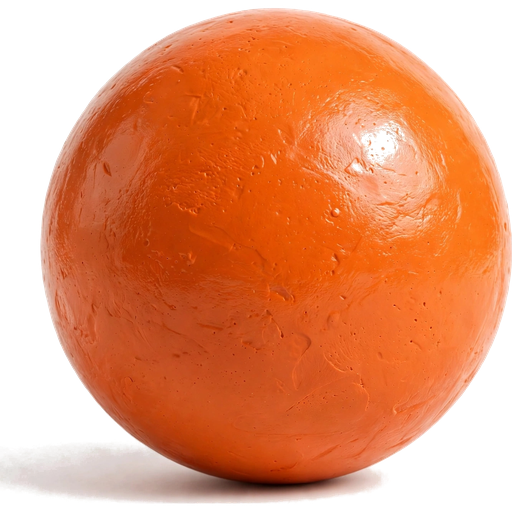
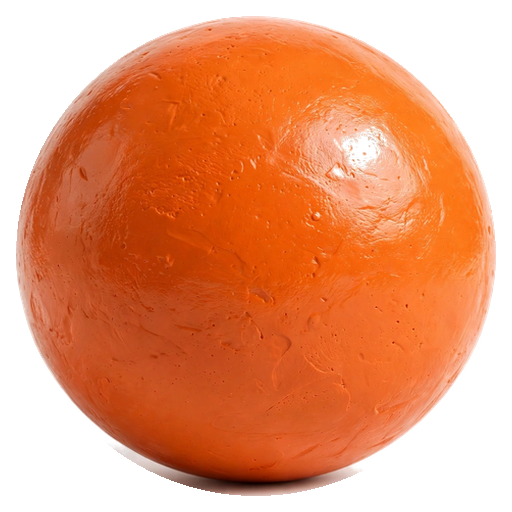
Ball Sort balls uniform size no shadow, points pop-up to bottom, slower transitions so points pop-up finishes before screen changes

diff --git a/index.html b/index.html
@@ -138,7 +138,7 @@ body.letters-flying #menuScreen{background:linear-gradient(180deg,#fff8ef,#ffe9c
 .memface{background:#ffe9c9}
 .revealcard img{height:auto!important;aspect-ratio:3/2;object-fit:cover}
 .simonbtn{height:160px!important;border-radius:22px!important;box-shadow:0 6px 18px rgba(0,0,0,.15)}
-.ballimg{filter:drop-shadow(0 4px 6px rgba(0,0,0,.25));transition:transform .25s ease}
+.ballimg{filter:none;transition:transform .25s ease}
 .ballimg.held{transform:translateY(-26px) scale(1.1)}
 .ballimg.pop{animation:ballpop .35s ease}
 @keyframes ballpop{0%{transform:scale(.7)}60%{transform:scale(1.15)}100%{transform:scale(1)}}
@@ -179,7 +179,7 @@ body.letters-flying #menuScreen{background:linear-gradient(180deg,#fff8ef,#ffe9c
 <div class="screen" id="transitionScreen" style="background:linear-gradient(180deg,#fff8ef,#ffe9c9)"><div style="flex:1;display:flex;flex-direction:column;align-items:center;justify-content:center"><img src="img/keep-one.png" alt="" style="width:92%;max-width:480px;animation:keepin 1.4s ease forwards"></div></div>
 
 <div id="xpCollect" style="display:none;position:fixed;left:50%;top:42%;transform:translate(-50%,-50%);z-index:70;pointer-events:none;text-align:center"><img src="img/cloud-puff.png" style="width:260px;height:auto;position:absolute;left:50%;top:50%;transform:translate(-50%,-50%);opacity:.95;animation:cloudpuff .9s ease-out forwards"><img id="xpCollectImg" src="img/xp-plus10.png" style="width:220px;max-width:80vw;height:auto;position:relative;z-index:1;animation:xppop .6s cubic-bezier(.34,1.56,.64,1) forwards;display:none"><div id="xpCollectText" style="position:relative;z-index:1;font-family:'Fredoka',system-ui,sans-serif;font-size:68px;font-weight:700;background:linear-gradient(90deg,#ff8a3d,#ff5d8f);-webkit-background-clip:text;background-clip:text;color:transparent;filter:drop-shadow(0 2px 0 #fff);animation:xppop .8s cubic-bezier(.34,1.56,.64,1) forwards"></div><div style="position:relative;z-index:1;font-family:'Fredoka',system-ui,sans-serif;font-size:24px;font-weight:700;background:linear-gradient(90deg,#ff8a3d,#ff5d8f);-webkit-background-clip:text;background-clip:text;color:transparent;filter:drop-shadow(0 2px 0 #fff)">Popularity Points</div></div>
-<div id="xpBarPop" style="display:none;position:fixed;left:50%;top:12px;transform:translateX(-50%);z-index:70;width:min(320px,88vw);background:#fff8ef;border:3px solid #e8c9a0;border-radius:20px;padding:10px 14px;pointer-events:none;box-shadow:0 8px 24px rgba(0,0,0,.15)"><div id="xpBarLabel" style="font-weight:900;font-size:15px;text-align:center;margin-bottom:6px">Popularity Points</div><div style="height:14px;background:#eee;border-radius:7px;overflow:hidden"><div id="xpBarFill" style="height:100%;width:0%;background:linear-gradient(90deg,#ff8a3d,#ff5d8f);border-radius:7px;transition:width .9s ease"></div></div><div id="xpBarText" style="font-weight:800;font-size:13px;text-align:center;margin-top:6px"></div></div>
+<div id="xpBarPop" style="display:none;position:fixed;left:50%;bottom:16px;transform:translateX(-50%);z-index:70;width:min(320px,88vw);background:#fff8ef;border:3px solid #e8c9a0;border-radius:20px;padding:10px 14px;pointer-events:none;box-shadow:0 8px 24px rgba(0,0,0,.15)"><div id="xpBarLabel" style="font-weight:900;font-size:15px;text-align:center;margin-bottom:6px">Popularity Points</div><div style="height:14px;background:#eee;border-radius:7px;overflow:hidden"><div id="xpBarFill" style="height:100%;width:0%;background:linear-gradient(90deg,#ff8a3d,#ff5d8f);border-radius:7px;transition:width .9s ease"></div></div><div id="xpBarText" style="font-weight:800;font-size:13px;text-align:center;margin-top:6px"></div></div>
 
 <div id="holdPopup" style="display:none;position:fixed;left:50%;top:28%;transform:translateX(-50%);z-index:80;pointer-events:none;text-align:center"><img id="holdPopupImg" src="img/hold-on.png" style="width:260px;max-width:80vw;height:auto;animation:xppop .45s cubic-bezier(.34,1.56,.64,1) forwards"></div>
 <div class="screen" id="pairScreen">
@@ -289,7 +289,7 @@ function trumpet(){[523,659,784].forEach(f=>beep(f,.6,'triangle',.03));setTimeou
 function trombone(){beep(90,.35,'sine',.06);setTimeout(()=>beep(70,.3,'sine',.05),180)}
 const $=id=>document.getElementById(id);
 function show(id){sfx(720,.06,'sine',.018,'screen');if(id!=='miniScreen')window._simonActive=false;if(id==='menuScreen'){document.body.classList.remove('letters-flying');let pb=$('playBtn');if(pb)pb.classList.remove('playpressed','playtapped')}document.querySelectorAll('.screen').forEach(s=>{s.classList.remove('active');s.classList.remove('screen-fadeout');s.classList.remove('screen-fadein')});$(id).classList.add('active');if(id==='menuScreen'||id==='dailyScreen'||id==='profileScreen'||id==='streakScreen')setMusicMode('menu');else if(id==='revealScreen')setMusicMode('reveal');else if(id==='pairScreen')setMusicMode('game');else setMusicMode('game')}
-function fadeShow(id){let cur=document.querySelector('.screen.active');if(cur)cur.classList.add('screen-fadeout');setTimeout(()=>{show(id);let t=$(id);t.classList.add('screen-fadein');requestAnimationFrame(()=>requestAnimationFrame(()=>t.classList.remove('screen-fadein')))},350)}
+function fadeShow(id){let cur=document.querySelector('.screen.active');if(cur)cur.classList.add('screen-fadeout');setTimeout(()=>{show(id);let t=$(id);t.classList.add('screen-fadein');requestAnimationFrame(()=>requestAnimationFrame(()=>t.classList.remove('screen-fadein')))},900)}
 let roomId=new URLSearchParams(location.search).get('room')||'',room=null,myPicks={},partnerPicks={},runStart=0,runIdx=0,preview=null;let guessMode=false,guessFriend='',guessPairs=[],guessPicks={};
 function roomRef(){return doc(db,'thisorthat_public',roomId)}
 async function ensureRoom(){if(!db)return;if(auth&&!user){try{await signInAnonymously(auth)}catch(e){}}let uid=user?.uid||('guest-'+Math.random().toString(36).slice(2));if(!roomId){roomId='room-'+Math.random().toString(36).slice(2,7);history.replaceState(null,'','?room='+roomId)}try{let ref=roomRef(),snap=await getDoc(ref);if(!snap.exists()){await setDoc(ref,{players:[{uid,name:'Player'}],picks:{},runStart:0,createdAt:Date.now()})}else{let d=snap.data();runStart=d.runStart||0;myPicks=d.picks?.[uid]||{}}}catch(e){}}
@@ -303,7 +303,7 @@ function tourneyMakeMatches(items){let matches=[],bye=null;for(let i=0;i<items.l
 function tourneyBucketWinners(bucket){let out=[];PAIRS.forEach((pr,i)=>{if(pr[4]===bucket&&myPicks['p'+i])out.push(myPicks['p'+i])});return out.sort(()=>Math.random()-.5)}
 function tourneySetupBucket(){tourney.bucket=tourney.buckets[tourney.bucketIdx];let items=tourneyBucketWinners(tourney.bucket);let r=tourneyMakeMatches(items);tourney.matches=r.matches;tourney.bye=r.bye;tourney.winners=r.bye?[r.bye]:[];tourney.matchIdx=0}
 function tourneySetupGrand(){tourney.stage='grand';let items=tourney.buckets.map(b=>tourney.champions[b]);let r=tourneyMakeMatches(items);tourney.matches=r.matches;tourney.bye=r.bye;tourney.winners=r.bye?[r.bye]:[];tourney.matchIdx=0}
-function startTourney(){tourneyActive=true;tourney={buckets:['cozy','food','nature','animals','color'],bucketIdx:0,stage:'bucket',champions:{},matches:[],bye:null,winners:[],matchIdx:0,bucket:''};tourneySetupBucket();show('transitionScreen');setTimeout(()=>{show('pairScreen');renderTourneyPair()},1700)}
+function startTourney(){tourneyActive=true;tourney={buckets:['cozy','food','nature','animals','color'],bucketIdx:0,stage:'bucket',champions:{},matches:[],bye:null,winners:[],matchIdx:0,bucket:''};tourneySetupBucket();show('transitionScreen');setTimeout(()=>{show('pairScreen');renderTourneyPair()},3000)}
 function renderTourneyPair(){if(!tourney)return;if(tourney.matchIdx>=tourney.matches.length){tourneyAdvance();return}let m=tourney.matches[tourney.matchIdx];runList=[m];runIdx=0;renderPair()}
 function tourneyAdvance(){if(!tourney)return;if(tourney.winners.length===1){let champ=tourney.winners[0];if(tourney.stage==='bucket'){tourney.champions[tourney.bucket]=champ;tourney.bucketIdx++;if(tourney.bucketIdx<tourney.buckets.length){tourneySetupBucket();renderTourneyPair();return}else{tourneySetupGrand();renderTourneyPair();return}}else{showTourneyChampion(champ);return}}let items=tourney.winners;let r=tourneyMakeMatches(items);tourney.matches=r.matches;tourney.bye=r.bye;tourney.winners=r.bye?[r.bye]:[];tourney.matchIdx=0;renderTourneyPair()}
 function showTourneyChampion(champ){tourneyActive=false;let el=$('tourneyChamp');if(el)el.innerHTML='<img src="'+(IMG[champ]||'')+'" style="width:280px;max-width:85vw;height:auto;border-radius:22px;border:3px solid #e8c9a0"><div style="font-size:28px;font-weight:900">'+champ+'</div>';show('tourneyScreen');trumpet();addXP(15);for(let c=0;c<20;c++){let d=document.createElement('div');d.className='confetti';d.style.left=Math.random()*100+'vw';d.style.background=['#ff8a3d','#ff5d8f','#ffd93d'][c%3];document.body.appendChild(d);setTimeout(()=>d.remove(),3000)}setTimeout(()=>{try{localStorage.setItem('tot_seen','[]')}catch(e){};tourney=null;runList=null;show('menuScreen')},4000)}
@@ -326,13 +326,13 @@ holdTimer=setInterval(()=>{let p=Math.min(100,(Date.now()-holdStart)/1500*100);l
 function endHold(){if(!preview)hideHoldPopup();stopRumble();if(holdTimer){clearInterval(holdTimer);holdTimer=null}let f=$('holdFill');if(f)f.remove();$('optA').classList.remove('holding');$('optB').classList.remove('holding');if(!preview){$('optA').classList.remove('chosen','dim','glow');$('optB').classList.remove('chosen','dim','glow');}}
 $('optA').addEventListener('pointerdown',()=>startHold('a'));$('optB').addEventListener('pointerdown',()=>startHold('b'));
 window.addEventListener('pointerup',endHold);window.addEventListener('pointercancel',endHold);
-$('confirmBtn').onclick=async()=>{if(!preview)return;if(tourneyActive){let t=document.getElementById('thumbsUp');if(t)t.remove();tourneyConfirm();return;}let t=document.getElementById('thumbsUp');if(t)t.remove();saveStats({picks:1});addXP(guessMode?5:10);showXpCollect(guessMode?5:10);let _m=runPairs()[runIdx];if(_m)saveSeen(_m.id);let m=runPairs()[runIdx];if(!guessMode)myPicks[m.id]=preview.label;let el=preview.side==='a'?$('optA'):$('optB');el.classList.remove('glow');el.classList.add('locked');try{navigator.vibrate&&navigator.vibrate([60,40,120])}catch(e){}try{let o=ctx.createOscillator(),g=ctx.createGain();o.type='sine';o.frequency.setValueAtTime(300,ctx.currentTime);o.frequency.exponentialRampToValueAtTime(1400,ctx.currentTime+.35);g.gain.setValueAtTime(.05,ctx.currentTime);g.gain.exponentialRampToValueAtTime(.001,ctx.currentTime+.4);o.connect(g);g.connect(ctx.destination);o.start();o.stop(ctx.currentTime+.4)}catch(e){}setTimeout(()=>beep(1320*pitchForRun(),.25,'sine'),200);if(guessMode){guessPicks[m.id]=preview.label}else if(db&&roomId){try{let ref=roomRef(),snap=await getDoc(ref);let picks=snap.data()?.picks||{};picks[user?.uid||'guest']=myPicks;await updateDoc(ref,{picks})}catch(e){}}let dir=preview.side==='b'?'slideout-right':'slideout-left';$('pairWrap').classList.add(dir);setTimeout(()=>{runIdx++;if(runIdx>=3){if(guessMode){if(guessFriend==='Partner'){showReveal()}else{showGuessDone()}}else{finishRun()}}else{renderPair()}},450)};
+$('confirmBtn').onclick=async()=>{if(!preview)return;if(tourneyActive){let t=document.getElementById('thumbsUp');if(t)t.remove();tourneyConfirm();return;}let t=document.getElementById('thumbsUp');if(t)t.remove();saveStats({picks:1});addXP(guessMode?5:10);showXpCollect(guessMode?5:10);let _m=runPairs()[runIdx];if(_m)saveSeen(_m.id);let m=runPairs()[runIdx];if(!guessMode)myPicks[m.id]=preview.label;let el=preview.side==='a'?$('optA'):$('optB');el.classList.remove('glow');el.classList.add('locked');try{navigator.vibrate&&navigator.vibrate([60,40,120])}catch(e){}try{let o=ctx.createOscillator(),g=ctx.createGain();o.type='sine';o.frequency.setValueAtTime(300,ctx.currentTime);o.frequency.exponentialRampToValueAtTime(1400,ctx.currentTime+.35);g.gain.setValueAtTime(.05,ctx.currentTime);g.gain.exponentialRampToValueAtTime(.001,ctx.currentTime+.4);o.connect(g);g.connect(ctx.destination);o.start();o.stop(ctx.currentTime+.4)}catch(e){}setTimeout(()=>beep(1320*pitchForRun(),.25,'sine'),200);if(guessMode){guessPicks[m.id]=preview.label}else if(db&&roomId){try{let ref=roomRef(),snap=await getDoc(ref);let picks=snap.data()?.picks||{};picks[user?.uid||'guest']=myPicks;await updateDoc(ref,{picks})}catch(e){}}let dir=preview.side==='b'?'slideout-right':'slideout-left';$('pairWrap').classList.add(dir);setTimeout(()=>{runIdx++;if(runIdx>=3){if(guessMode){if(guessFriend==='Partner'){showReveal()}else{showGuessDone()}}else{finishRun()}}else{renderPair()}},5000)};
 async function finishRun(){show('processScreen');let variants=[
 '<div style="font-size:80px;animation:vortex 1.5s linear infinite">💫</div><div style="font-size:20px;font-weight:800">Hearts swirling</div>',
 '<div style="font-size:80px;animation:shufflefly .6s ease-in-out infinite">🃏</div><div style="font-size:20px;font-weight:800">Cards flying</div>',
 '<div style="font-size:80px">🎆</div><div style="font-size:20px;font-weight:800">Fireworks saving</div>',
 '<div style="font-size:80px;animation:bob 1s ease-in-out infinite">💌</div><div style="font-size:20px;font-weight:800">Sealing with a kiss</div>'];
-let _pairs=runPairs();let _imgs=_pairs.slice(0,3).map(pr=>IMG[pr.a]||'');$('spectacle').innerHTML='<div style="display:flex;gap:12px;justify-content:center">'+_imgs.map((im,i)=>`<img src="${im}" style="width:120px;height:80px;object-fit:cover;animation:shufflefly .6s ease-in-out infinite;animation-delay:${i*150}ms;border:3px solid #e8c9a0;border-radius:18px;background:#fff">`).join('')+'</div><div style="font-size:20px;font-weight:800">Saving your picks</div><div style="width:200px;height:12px;background:#eee;border-radius:6px;overflow:hidden"><div id="specBar" style="height:100%;width:0%;background:#ff8a3d;transition:width 1.2s linear"></div></div>';setTimeout(()=>{let b=$('specBar');if(b)b.style.width='100%'},50);beep(500,.15);setTimeout(()=>beep(650,.15),700);setTimeout(()=>beep(800,.2),1400);for(let c=0;c<12;c++){let el=document.createElement('div');el.className='confetti';el.style.left=Math.random()*100+'vw';el.style.background=['#ff8a3d','#ff5d8f','#ffd93d'][c%3];document.body.appendChild(el);setTimeout(()=>el.remove(),2500)}window._processStart=Date.now();window._processAdvanced=false;function advanceFromProcess(){if(window._processAdvanced)return;window._processAdvanced=true;let pairs=runPairs();let partnerDone=pairs.every(p=>partnerPicks[p.id]);if(partnerDone){show('guessPopupScreen');let t=$('guessPopupText');if(t)t.textContent='Your partner already played these 3.'}else{finishedRun=true;try{startMemory()}catch(e){(async()=>{await buildRun();runIdx=0;nextPairs()})()}}};setTimeout(advanceFromProcess,1400);if(!window._processWatch){window._processWatch=setInterval(()=>{if(document.getElementById('processScreen')&&document.getElementById('processScreen').classList.contains('active')&&Date.now()-window._processStart>3000){advanceFromProcess()}},500)}}
+let _pairs=runPairs();let _imgs=_pairs.slice(0,3).map(pr=>IMG[pr.a]||'');$('spectacle').innerHTML='<div style="display:flex;gap:12px;justify-content:center">'+_imgs.map((im,i)=>`<img src="${im}" style="width:120px;height:80px;object-fit:cover;animation:shufflefly .6s ease-in-out infinite;animation-delay:${i*150}ms;border:3px solid #e8c9a0;border-radius:18px;background:#fff">`).join('')+'</div><div style="font-size:20px;font-weight:800">Saving your picks</div><div style="width:200px;height:12px;background:#eee;border-radius:6px;overflow:hidden"><div id="specBar" style="height:100%;width:0%;background:#ff8a3d;transition:width 1.2s linear"></div></div>';setTimeout(()=>{let b=$('specBar');if(b)b.style.width='100%'},50);beep(500,.15);setTimeout(()=>beep(650,.15),700);setTimeout(()=>beep(800,.2),1400);for(let c=0;c<12;c++){let el=document.createElement('div');el.className='confetti';el.style.left=Math.random()*100+'vw';el.style.background=['#ff8a3d','#ff5d8f','#ffd93d'][c%3];document.body.appendChild(el);setTimeout(()=>el.remove(),2500)}window._processStart=Date.now();window._processAdvanced=false;function advanceFromProcess(){if(window._processAdvanced)return;window._processAdvanced=true;let pairs=runPairs();let partnerDone=pairs.every(p=>partnerPicks[p.id]);if(partnerDone){show('guessPopupScreen');let t=$('guessPopupText');if(t)t.textContent='Your partner already played these 3.'}else{finishedRun=true;try{startMemory()}catch(e){(async()=>{await buildRun();runIdx=0;nextPairs()})()}}};setTimeout(advanceFromProcess,5000);if(!window._processWatch){window._processWatch=setInterval(()=>{if(document.getElementById('processScreen')&&document.getElementById('processScreen').classList.contains('active')&&Date.now()-window._processStart>5000){advanceFromProcess()}},500)}}
 if($('soloBtn'))$('soloBtn').onclick=()=>{show('soloScreen');let pairs=runPairs();$('soloList').innerHTML=pairs.map(pr=>`<div class="card"><img src="${IMG[myPicks[pr.id]]||''}" style="width:100%;height:120px;object-fit:contain"><div style="font-weight:800">${myPicks[pr.id]||''}</div></div>`).join('')};
 $('soloNextBtn').onclick=async()=>{await buildRun();runIdx=0;nextPairs()};
 $('soloMenuBtn').onclick=()=>show('menuScreen');
@@ -382,7 +382,7 @@ function nextCycleGame(){if(miniCycleIdx>=miniCycle.length){miniCycle=MINI_GAMES
 function startCycleInterlude(){let g=nextCycleGame();window._cycleMini=true;show('miniScreen');let skipToPairs=async()=>{await buildRun();runIdx=0;nextPairs()};if(g==='simon'){try{playSimonCycle()}catch(e){skipToPairs();return}}else{try{playMini(g)}catch(e){skipToPairs();return}if(!$('miniPlay')||!$('miniPlay').innerHTML.trim()){skipToPairs();return}}}
 function playSimonCycle(){window._simonActive=true;let el=$('miniPlay');if($('miniTitle'))$('miniTitle').innerHTML='<img src="img/mini-colorcode.png" style="width:180px;max-width:80vw;height:auto">';let colors=[['#ff5d5d',523],['#4caf50',659],['#4a90e2',784],['#ffd93d',1047]];let pattern=[Math.floor(Math.random()*4)];let step=0,showing=true;el.innerHTML='<div id="simonMsg" class="clayhdr" style="font-size:24px;margin-bottom:8px">Watch</div><div style="display:grid;grid-template-columns:1fr 1fr;gap:12px;margin:12px 0">'+colors.map(function(c,i){return '<button class="simonbtn" data-i="'+i+'" style="height:100px;background:'+c[0]+';border-radius:18px;border:3px solid #fff;opacity:.6"></button>'}).join('')+'</div>';let btns=el.querySelectorAll('.simonbtn');function light(i){let b=btns[i];b.style.opacity='1';b.style.transform='scale(1.05)';beep(colors[i][1],.4,'sine',.12);setTimeout(function(){b.style.opacity='.6';b.style.transform='scale(1)'},400)}function showPattern(){showing=true;step=0;document.getElementById('simonMsg').textContent='Watch: '+pattern.length+' beat'+(pattern.length>1?'s':'');pattern.forEach(function(v,idx){setTimeout(function(){light(v)},idx*700)});setTimeout(function(){showing=false;document.getElementById('simonMsg').textContent='Your turn'},pattern.length*700)}el.style.position='relative';let _rd=document.createElement('div');_rd.id='simonReady';_rd.style.cssText='position:absolute;inset:0;background:linear-gradient(180deg,#fff8ef,#ffe9c9);z-index:5;display:flex;flex-direction:column;align-items:center;justify-content:center;gap:12px;transition:opacity .6s ease';_rd.innerHTML='<img src="img/cloud-puff.png" style="width:180px;height:auto"><div class="clayhdr" style="font-size:32px">Pay attention!</div><div style="font-weight:800;font-size:18px">Watch the colours, then copy them</div>';el.appendChild(_rd);beep(880,.18,'sine',.05);setTimeout(()=>{beep(880,.18,'sine',.05)},450);setTimeout(()=>{beep(880,.18,'sine',.05)},900);setTimeout(()=>{_rd.style.opacity='0';setTimeout(()=>{_rd.remove();showPattern()},600)},2400);btns.forEach(function(b){b.onclick=function(){if(showing)return;let i=+b.dataset.i;light(i);if(i===pattern[step]){step++;if(step===pattern.length){if(pattern.length>=5){document.getElementById('simonMsg').textContent='Done!';window._simonActive=false;addXP(3);showXpCollect(3);setTimeout(async()=>{await buildRun();runIdx=0;nextPairs()},1200)}else{document.getElementById('simonMsg').textContent='Nice! Next: '+(pattern.length+1);pattern.push(Math.floor(Math.random()*4));setTimeout(showPattern,800)}}}else{document.getElementById('simonMsg').textContent='No big deal, watching again';setTimeout(showPattern,800)}}})}
 function playMini(id){try{localStorage.setItem('tot_mini_played',String((parseInt(localStorage.getItem('tot_mini_played')||'0')||0)+1))}catch(e){};window._miniDone=false;let el=$('miniPlay');let _t={wordsearch:'img/mini-wordsearch.png',howmany:'img/mini-howmany.png',oddone:'img/mini-oddone.png',sort:'img/mini-sort.png',spotpair:'img/mini-spotpair.png',missing:'img/mini-missing.png',arrow:'img/mini-arrow.png',ballsort:'img/mini-ballsort.png',scramble:'img/mini-scramble.png',connect:'img/mini-connect.png',simon:'img/mini-colorcode.png',hammer:'img/mini-hammer.png',balloon:'img/mini-balloon.png',paint:'img/mini-paint.png',cups:'img/mini-cups.png'};let _g=MINI_GAMES.find(g=>g.id===id);let tileB=t=>'<img src="'+(IMG[t]||'')+'" style="width:100%;aspect-ratio:3/2;object-fit:cover;display:block"><span style="font-weight:800;padding:6px;text-align:center;display:block">'+t+'</span>';if($('miniTitle'))$('miniTitle').innerHTML=_t[id]?'<img src="'+_t[id]+'" style="width:180px;max-width:80vw;height:auto">':'<div class="clayhdr">'+(_g?_g.name:id)+'</div>';
-function finish(award=true){if(window._miniDone)return;window._miniDone=true;if(award){addXP(3);showXpCollect(3)}sfx(880,.3,'sine',.04,'correct');el.innerHTML='<div style="text-align:center;padding:20px"><img src="img/clay-heart.png" style="width:80px;height:80px"></div>';setTimeout(async()=>{window._miniDone=false;await buildRun();runIdx=0;nextPairs()},1400)}
+function finish(award=true){if(window._miniDone)return;window._miniDone=true;if(award){addXP(3);showXpCollect(3)}sfx(880,.3,'sine',.04,'correct');el.innerHTML='<div style="text-align:center;padding:20px"><img src="img/clay-heart.png" style="width:80px;height:80px"></div>';setTimeout(async()=>{window._miniDone=false;await buildRun();runIdx=0;nextPairs()},5000)}
 function tileImg(name,extra=''){return '<div style="border:3px solid #e8c9a0;border-radius:18px;overflow:hidden;background:#fff;'+extra+'"><img src="'+(IMG[name]||'')+'" style="width:100%;aspect-ratio:3/2;object-fit:cover;display:block"><div style="font-weight:800;padding:6px;text-align:center">'+name+'</div></div>'}
 function pickItems(n){let all=PAIRS.map(pr=>pr[0]).concat(PAIRS.map(pr=>pr[1]));return [...new Set(all)].sort(()=>Math.random()-.5).slice(0,n)}
 if(id==='wordsearch'){let words=['COZY','PIZZA','WINTER'];let R=7,C=7;let grid=Array.from({length:R},()=>Array.from({length:C},()=> 'ABCDEFGHIJKLMNOPQRSTUVWXYZ'[Math.floor(Math.random()*26)]));let place=(w,r,c,dr,dc)=>{for(let i=0;i<w.length;i++)grid[r+i*dr][c+i*dc]=w[i]};place('COZY',0,0,0,1);place('PIZZA',0,6,1,0);place('WINTER',5,0,0,1);let found=[],sel=[],dragging=false,dragMoved=false;let cellStyle=(r,c)=>{let isSel=sel.some(p=>p[0]===r&&p[1]===c);let isFound=found.some(w=>w.cells.some(p=>p[0]===r&&p[1]===c));return 'border:3px solid '+(isFound?'#4caf50':isSel?'#ff8a3d':'#e8c9a0')+';background:'+(isFound?'#c8f7c8':isSel?'#ffe9c9':'#fff')};let updateStyles=()=>{el.querySelectorAll('button[data-r]').forEach(b=>{let r=+b.dataset.r,c=+b.dataset.c;b.style.cssText='aspect-ratio:1;width:100%;padding:0;min-height:0;font-size:clamp(20px,6vw,38px);font-weight:900;border-radius:10px;touch-action:none;'+cellStyle(r,c)});el.querySelectorAll('[data-w]').forEach(sp=>{let w=sp.dataset.w;let f=found.some(x=>x.word===w);sp.style.textDecoration=f?'line-through':'';sp.style.opacity=f?'.5':'1'})};let setMsg=t=>{let m=document.getElementById('wsMsg');if(m)m.textContent=t};let addCell=(r,c)=>{if(sel.some(p=>p[0]===r&&p[1]===c))return false;sel.push([r,c]);sfx(800,.07,'sine',.03,'tap');updateStyles();return true};let evalTap=()=>{let str=sel.map(p=>grid[p[0]][p[1]]).join('');let hit=words.find(w=>w===str&&!found.some(f=>f.word===w));if(hit){found.push({word:hit,cells:[...sel]});sel=[];sfx(880,.3,'sine',.04,'correct');updateStyles();if(found.length===words.length){setMsg('All found!');finish()}else setMsg('Found '+hit+'!')}else if(!words.some(w=>w.startsWith(str))){sfx(200,.2,'sine',.03,'wrong');sel=[];updateStyles();setMsg('Not a word, try another')}else setMsg('')};let evalDrag=()=>{let str=sel.map(p=>grid[p[0]][p[1]]).join('');let hit=words.find(w=>w===str&&!found.some(f=>f.word===w));if(hit){found.push({word:hit,cells:[...sel]});sel=[];sfx(880,.3,'sine',.04,'correct');updateStyles();if(found.length===words.length){setMsg('All found!');finish()}else setMsg('Found '+hit+'!')}else{sfx(200,.2,'sine',.03,'wrong');sel=[];updateStyles();setMsg('Not a word, try another')}};el.innerHTML='<div id="wsGrid" style="display:grid;grid-template-columns:repeat(7,minmax(0,1fr));gap:4px;width:min(100%,calc(100dvh - 320px));max-width:720px;margin:0 auto;touch-action:none;-webkit-user-select:none;user-select:none">'+grid.map((row,r)=>row.map((ch,c)=>'<button style="aspect-ratio:1;width:100%;padding:0;min-height:0;font-size:clamp(20px,6vw,38px);font-weight:900;border-radius:10px;border:3px solid #e8c9a0;background:#fff;touch-action:none" data-r="'+r+'" data-c="'+c+'">'+ch+'</button>').join('')).join('')+'</div><div style="margin-top:12px;font-weight:800">'+words.map(w=>'<span data-w="'+w+'" style="margin:0 8px">'+w+'</span>').join('')+'</div><div id="wsMsg" style="margin-top:8px;font-weight:800"></div>';let g=document.getElementById('wsGrid');let cellFromPoint=(x,y)=>{let t=document.elementFromPoint(x,y);let b=t&&t.closest?t.closest('button[data-r]'):null;return b?{r:+b.dataset.r,c:+b.dataset.c}:null};g.addEventListener('pointerdown',e=>{let cell=cellFromPoint(e.clientX,e.clientY);if(!cell)return;e.preventDefault();dragging=true;dragMoved=false;addCell(cell.r,cell.c)});g.addEventListener('pointermove',e=>{if(!dragging)return;let cell=cellFromPoint(e.clientX,e.clientY);if(!cell)return;if(addCell(cell.r,cell.c))dragMoved=true});g.addEventListener('pointerup',()=>{if(!dragging)return;dragging=false;if(dragMoved)evalDrag();else evalTap()});g.addEventListener('pointercancel',()=>{dragging=false})}
@@ -390,7 +390,7 @@ else if(id==='howmany'){let _bases=['POPULARITY','FRIENDSHIP','PLAYGROUND','WOND
 else if(id==='oddone'){let by={};PAIRS.forEach(function(pr){(by[pr[4]]=by[pr[4]]||[]).push(pr[0],pr[1])});let buckets=Object.keys(by).filter(b=>by[b].length>=3);let b1=buckets[Math.floor(Math.random()*buckets.length)];let b2=buckets.filter(b=>b!==b1)[Math.floor(Math.random()*(buckets.length-1))];let same=[...new Set(by[b1])].sort(()=>Math.random()-.5).slice(0,3);let diff=[...new Set(by[b2])].sort(()=>Math.random()-.5)[0];let tiles=[same[0],same[1],same[2],diff].sort(()=>Math.random()-.5);el.innerHTML='<div style="display:grid;grid-template-columns:1fr 1fr;gap:4px">'+tiles.map((t,i)=>'<button type="button" data-idx="'+i+'" style="background:#fff;border:3px solid #e8c9a0;border-radius:18px;overflow:hidden;padding:0;cursor:pointer;text-align:center">'+tileB(t)+'</button>').join('')+'</div><div id="oddMsg" style="font-weight:800;margin-top:8px"></div>';el.querySelectorAll('[data-idx]').forEach(b=>{let t=tiles[+b.dataset.idx];b.onclick=()=>{if(t===diff){b.style.outline='4px solid #4caf50';b.style.borderRadius='18px';sfx(880,.2,'sine',.04,'correct');finish()}else{sfx(200,.15,'sine',.03,'wrong');b.style.opacity='.4';document.getElementById('oddMsg').textContent='That one belongs, try another'}}})}
 else if(id==='sort'){let buckets=['cozy','food','nature'];let items=[];buckets.forEach(b=>{let pr=PAIRS.filter(p=>p[4]===b);let p=pr[Math.floor(Math.random()*pr.length)];items.push({name:Math.random()<.5?p[0]:p[1],bucket:b})});items=items.sort(()=>Math.random()-.5);let idx=0,sorted=0;let render=()=>{if(idx>=items.length){finish();return}let it=items[idx];el.innerHTML=tileImg(it.name)+'<div style="display:grid;grid-template-columns:1fr 1fr 1fr;gap:4px;margin-top:8px">'+buckets.map(b=>'<button class="big" data-b="'+b+'">'+b+'</button>').join('')+'</div>';el.querySelectorAll('[data-b]').forEach(b=>b.onclick=()=>{if(b.dataset.b===it.bucket){sfx(880,.2,'sine',.04,'correct');idx++;sorted++;render()}else{sfx(200,.15,'sine',.03,'wrong');b.style.opacity='.4'}})};render()}
 else if(id==='spotpair'){let items=pickItems(3);let tiles=[];items.forEach(t=>{tiles.push(t);tiles.push(t)});tiles=tiles.sort(()=>Math.random()-.5);let sel=[];let found=[];el.innerHTML='<div style="display:grid;grid-template-columns:1fr 1fr 1fr;gap:4px">'+tiles.map((t,i)=>'<button type="button" data-i="'+i+'" style="background:#fff;border:3px solid #e8c9a0;border-radius:18px;overflow:hidden;padding:0;cursor:pointer;text-align:center">'+tileB(t)+'</button>').join('')+'</div><div id="spotMsg" style="font-weight:800;margin-top:8px"></div>';let divs=el.querySelectorAll('[data-i]');let setSpotMsg=t=>{let m=document.getElementById('spotMsg');if(m)m.textContent=t};divs.forEach(d=>d.onclick=()=>{let i=+d.dataset.i;if(sel.includes(i)||found.includes(i))return;sfx(800,.07,'sine',.03,'tap');sel.push(i);d.style.border='3px solid #ff8a3d';d.style.borderRadius='18px';if(sel.length===2){if(tiles[sel[0]]===tiles[sel[1]]){sfx(1100,.2,'sine',.04,'correct');let s2=sel;found.push(s2[0],s2[1]);s2.forEach(j=>{divs[j].style.border='3px solid #4caf50';divs[j].style.opacity='.55'});sel=[];if(found.length===tiles.length){setSpotMsg('All pairs found!');finish()}else setSpotMsg('Found '+(found.length/2)+' / 3 pairs')}else{sfx(200,.2,'sine',.03,'wrong');let s2=sel;setTimeout(()=>{s2.forEach(j=>{if(!found.includes(j)){divs[j].style.border='';divs[j].style.borderRadius=''}});sel=[];setSpotMsg('Not a match, try again')},700);sel=[]}}})}
-else if(id==='ballsort'){let BALLIMG={orange:'img/ball-clay-orange.png',pink:'img/ball-clay-pink.png',gold:'img/ball-clay-gold.png',teal:'img/ball-clay-teal.png'};let INIT=[['gold','pink','orange'],['gold','teal','gold'],['teal','pink','pink'],['orange','orange','teal'],[],[]];let tubes=JSON.parse(JSON.stringify(INIT));let held=null,moves=0,undoStack=[];let setMsg=t=>{let m=document.getElementById('bsMsg');if(m)m.textContent=t};let setMoves=()=>{let m=document.getElementById('bsMoves');if(m)m.textContent='Moves: '+moves};let updateHeld=()=>{document.querySelectorAll('#bsTubes .tube').forEach((d,i)=>{d.classList.toggle('sel',held!==null&&held.from===i);let imgs=d.querySelectorAll('.ballimg');imgs.forEach(im=>im.classList.remove('held'));if(held!==null&&held.from===i&&imgs.length)imgs[imgs.length-1].classList.add('held')})};let renderTubes=()=>{let wrap=document.getElementById('bsTubes');if(!wrap)return;wrap.innerHTML=tubes.map((t,i)=>'<div data-t="'+i+'" class="tube" style="cursor:pointer;flex:1;min-width:0;min-height:200px;border:3px solid #e8c9a0;border-top-width:6px;border-radius:12px 12px 20px 20px;background:linear-gradient(180deg,#fffdf6,#ffe9c9);display:flex;flex-direction:column-reverse;align-items:center;padding:6px 4px 8px;gap:2px;box-shadow:0 6px 16px rgba(0,0,0,.12);transition:border-color .2s,box-shadow .2s">'+t.map(c=>'<img src="'+BALLIMG[c]+'" class="ballimg" data-c="'+c+'" style="width:100%;height:auto">').join('')+'</div>').join('');wrap.querySelectorAll('[data-t]').forEach(d=>d.onclick=()=>onTube(+d.dataset.t));updateHeld()};let isWin=()=>{let seen={};for(let t of tubes){if(!t.length)continue;if(t.some(c=>c!==t[0]))return false;if(seen[t[0]])return false;seen[t[0]]=true}return Object.keys(seen).length===4};let onTube=i=>{let tubeEls=document.querySelectorAll('#bsTubes .tube');let tubeEl=tubeEls[i];if(held===null){if(!tubes[i].length){sfx(200,.12,'sine',.03,'wrong');if(tubeEl){tubeEl.classList.add('shake');setTimeout(()=>tubeEl.classList.remove('shake'),320)}setMsg('That tube is empty');return}held={from:i,color:tubes[i][tubes[i].length-1]};sfx(700,.08,'sine',.03,'tap');updateHeld();setMsg('')}else{if(i===held.from){held=null;updateHeld();setMsg('');return}if(tubes[i].length>=4){sfx(200,.15,'sine',.03,'wrong');held=null;updateHeld();if(tubeEl){tubeEl.classList.add('shake');setTimeout(()=>tubeEl.classList.remove('shake'),320)}setMsg('That tube is full');return}if(tubes[i].length===0||tubes[i][tubes[i].length-1]===held.color){undoStack.push(JSON.stringify(tubes));tubes[held.from].pop();tubes[i].push(held.color);moves++;held=null;sfx(700,.15,'sine',.04,'correct');setMoves();renderTubes();let dest=document.querySelectorAll('#bsTubes .tube')[i];if(dest){let imgs=dest.querySelectorAll('.ballimg');if(imgs.length)imgs[imgs.length-1].classList.add('drop')}if(isWin()){setMsg('All sorted!');finish()}else setMsg('')}else{sfx(200,.15,'sine',.03,'wrong');held=null;updateHeld();if(tubeEl){tubeEl.classList.add('shake');setTimeout(()=>tubeEl.classList.remove('shake'),320)}setMsg('Cannot drop there, try another tube')}}};el.innerHTML='<div style="display:flex;gap:8px;justify-content:center;align-items:center;flex-wrap:wrap;margin-bottom:10px"><div id="bsMoves" style="font-weight:900">Moves: 0</div><button class="small" id="bsUndoBtn">Undo</button><button class="small" id="bsRestartBtn">Restart</button></div><div id="bsTubes" style="display:flex;gap:5px;justify-content:center;width:100%;max-width:720px;margin:0 auto"></div><div id="bsMsg" style="font-weight:800;margin-top:10px"></div>';document.getElementById('bsUndoBtn').onclick=()=>{if(!undoStack.length){setMsg('Nothing to undo');return}held=null;tubes=JSON.parse(undoStack.pop());moves=Math.max(0,moves-1);setMoves();renderTubes();setMsg('')};document.getElementById('bsRestartBtn').onclick=()=>{held=null;tubes=JSON.parse(JSON.stringify(INIT));moves=0;undoStack=[];setMoves();renderTubes();setMsg('')};renderTubes()}
+else if(id==='ballsort'){let BALLIMG={orange:'img/ball-clay-orange.png',pink:'img/ball-clay-pink.png',gold:'img/ball-clay-gold.png',teal:'img/ball-clay-teal.png'};let INIT=[['gold','pink','orange'],['gold','teal','gold'],['teal','pink','pink'],['orange','orange','teal'],[],[]];let tubes=JSON.parse(JSON.stringify(INIT));let held=null,moves=0,undoStack=[];let setMsg=t=>{let m=document.getElementById('bsMsg');if(m)m.textContent=t};let setMoves=()=>{let m=document.getElementById('bsMoves');if(m)m.textContent='Moves: '+moves};let updateHeld=()=>{document.querySelectorAll('#bsTubes .tube').forEach((d,i)=>{d.classList.toggle('sel',held!==null&&held.from===i);let imgs=d.querySelectorAll('.ballimg');imgs.forEach(im=>im.classList.remove('held'));if(held!==null&&held.from===i&&imgs.length)imgs[imgs.length-1].classList.add('held')})};let renderTubes=()=>{let wrap=document.getElementById('bsTubes');if(!wrap)return;wrap.innerHTML=tubes.map((t,i)=>'<div data-t="'+i+'" class="tube" style="cursor:pointer;flex:1;min-width:0;min-height:200px;border:3px solid #e8c9a0;border-top-width:6px;border-radius:12px 12px 20px 20px;background:linear-gradient(180deg,#fffdf6,#ffe9c9);display:flex;flex-direction:column-reverse;align-items:center;padding:6px 4px 8px;gap:2px;box-shadow:0 6px 16px rgba(0,0,0,.12);transition:border-color .2s,box-shadow .2s">'+t.map(c=>'<img src="'+BALLIMG[c]+'" class="ballimg" data-c="'+c+'" style="width:100%;aspect-ratio:1;object-fit:contain;display:block">').join('')+'</div>').join('');wrap.querySelectorAll('[data-t]').forEach(d=>d.onclick=()=>onTube(+d.dataset.t));updateHeld()};let isWin=()=>{let seen={};for(let t of tubes){if(!t.length)continue;if(t.some(c=>c!==t[0]))return false;if(seen[t[0]])return false;seen[t[0]]=true}return Object.keys(seen).length===4};let onTube=i=>{let tubeEls=document.querySelectorAll('#bsTubes .tube');let tubeEl=tubeEls[i];if(held===null){if(!tubes[i].length){sfx(200,.12,'sine',.03,'wrong');if(tubeEl){tubeEl.classList.add('shake');setTimeout(()=>tubeEl.classList.remove('shake'),320)}setMsg('That tube is empty');return}held={from:i,color:tubes[i][tubes[i].length-1]};sfx(700,.08,'sine',.03,'tap');updateHeld();setMsg('')}else{if(i===held.from){held=null;updateHeld();setMsg('');return}if(tubes[i].length>=4){sfx(200,.15,'sine',.03,'wrong');held=null;updateHeld();if(tubeEl){tubeEl.classList.add('shake');setTimeout(()=>tubeEl.classList.remove('shake'),320)}setMsg('That tube is full');return}if(tubes[i].length===0||tubes[i][tubes[i].length-1]===held.color){undoStack.push(JSON.stringify(tubes));tubes[held.from].pop();tubes[i].push(held.color);moves++;held=null;sfx(700,.15,'sine',.04,'correct');setMoves();renderTubes();let dest=document.querySelectorAll('#bsTubes .tube')[i];if(dest){let imgs=dest.querySelectorAll('.ballimg');if(imgs.length)imgs[imgs.length-1].classList.add('drop')}if(isWin()){setMsg('All sorted!');finish()}else setMsg('')}else{sfx(200,.15,'sine',.03,'wrong');held=null;updateHeld();if(tubeEl){tubeEl.classList.add('shake');setTimeout(()=>tubeEl.classList.remove('shake'),320)}setMsg('Cannot drop there, try another tube')}}};el.innerHTML='<div style="display:flex;gap:8px;justify-content:center;align-items:center;flex-wrap:wrap;margin-bottom:10px"><div id="bsMoves" style="font-weight:900">Moves: 0</div><button class="small" id="bsUndoBtn">Undo</button><button class="small" id="bsRestartBtn">Restart</button></div><div id="bsTubes" style="display:flex;gap:5px;justify-content:center;width:100%;max-width:720px;margin:0 auto"></div><div id="bsMsg" style="font-weight:800;margin-top:10px"></div>';document.getElementById('bsUndoBtn').onclick=()=>{if(!undoStack.length){setMsg('Nothing to undo');return}held=null;tubes=JSON.parse(undoStack.pop());moves=Math.max(0,moves-1);setMoves();renderTubes();setMsg('')};document.getElementById('bsRestartBtn').onclick=()=>{held=null;tubes=JSON.parse(JSON.stringify(INIT));moves=0;undoStack=[];setMoves();renderTubes();setMsg('')};renderTubes()}
 else if(id==='scramble'){let _scrWins=0;try{_scrWins=parseInt(localStorage.getItem('tot_scramble_wins')||'0')||0}catch(e){};let _scrMax=_scrWins<2?4:(_scrWins<5?6:(_scrWins<10?8:10));let words=pickItems(60).filter(w=>/^[A-Z ]+$/.test(w.toUpperCase())&&w.replace(/ /g,'').length>=3&&w.replace(/ /g,'').length<=_scrMax);let word=(words[0]||'COZY').toUpperCase().replace(/ /g,'');let _catPair=PAIRS.find(pr=>pr[0].toUpperCase().replace(/ /g,'')===word||pr[1].toUpperCase().replace(/ /g,'')===word);let cat=_catPair?_catPair[4]:(word==='COZY'?'cozy':'');let scr=word.split('').sort(()=>Math.random()-.5);while(scr.join('')===word)scr=word.split('').sort(()=>Math.random()-.5);let built=[];let render=(msg='')=>{el.innerHTML=(cat?'<div style="font-weight:800;margin-bottom:4px">Category: '+cat+'</div>':'')+'<div style="font-weight:800;margin-bottom:8px">Unscramble: '+scr.join(' ')+'</div><div style="font-weight:800;min-height:32px;font-size:24px;letter-spacing:4px">'+built.map(j=>scr[j]).join('')+'</div><div style="display:flex;gap:6px;justify-content:center;flex-wrap:wrap;margin-top:8px">'+scr.map((ch,i)=>'<button class="big" data-i="'+i+'" style="width:auto;padding:14px 18px;font-size:24px;'+(built.includes(i)?'opacity:.3':'')+'">'+ch+'</button>').join('')+'</div><div style="font-weight:800;margin-top:8px">'+msg+'</div>';el.querySelectorAll('[data-i]').forEach(b=>b.onclick=()=>{let i=+b.dataset.i;if(built.includes(i))return;sfx(800,.07,'sine',.03,'tap');built.push(i);let v=built.map(j=>scr[j]).join('');if(built.length===word.length){if(v===word){sfx(1100,.2,'sine',.04,'correct');try{localStorage.setItem('tot_scramble_wins',String(_scrWins+1))}catch(e){};render('Correct!');finish()}else{sfx(200,.2,'sine',.03,'wrong');built=[];render('Try again')}}else render('')})};render()}
 else if(id==='cups'){let speed=parseInt(localStorage.getItem('tot_cups_speed')||'900')||900;let _cupWins=0;try{_cupWins=parseInt(localStorage.getItem('tot_cups_wins')||'0')||0}catch(e){};let prize=Math.floor(Math.random()*3);let slots=[0,1,2];let cupEls=[];let solved=false,shuffling=true;let cupLeft=i=>['2%','36%','70%'][i];let cupW='28%';let prizeLeft=i=>['8%','42%','76%'][i];el.innerHTML='<img src="img/prompt-watch.png" alt="" class="cupPromptImg" style="display:block;max-width:90%;height:auto;margin:0 auto 8px"><div id="cupStage" style="position:relative;height:260px;max-width:720px;width:100%;margin:0 auto"></div><div id="cupMsg" style="margin-top:8px;text-align:center"><img id="cupMsgImg" alt="" class="cupPromptImg" style="display:none;max-width:90%;height:auto;margin:0 auto"></div>';let stage=document.getElementById('cupStage');for(let i=0;i<3;i++){let c=document.createElement('img');c.src='img/cup-clay.png';c.alt='';c.style.cssText='position:absolute;bottom:10px;left:'+cupLeft(i)+';width:'+cupW+';height:auto;object-fit:contain;transition:left .6s cubic-bezier(.4,0,.2,1),transform .3s ease;z-index:2;cursor:pointer;filter:drop-shadow(0 6px 12px rgba(0,0,0,.2))';stage.appendChild(c);cupEls.push(c)}let prizeEl=document.createElement('img');prizeEl.src='img/gem-clay.png';prizeEl.alt='';prizeEl.style.cssText='position:absolute;bottom:14px;left:'+prizeLeft(prize)+';width:16%;height:auto;object-fit:contain;z-index:1;transition:left .6s cubic-bezier(.4,0,.2,1),transform .3s ease';stage.appendChild(prizeEl);let msg=document.getElementById('cupMsg');let setCupMsg=t=>{let img=document.getElementById('cupMsgImg');let map={'Shuffling…':'img/prompt-shuffling.png','Tap a cup to lift it':'img/prompt-tap.png','You found it!':'img/prompt-found.png','No big deal, look — here it was':'img/prompt-nobigdeal.png','There it was!':'img/prompt-there.png'};if(img&&map[t]){img.src=map[t];img.style.display='block';img.classList.remove('cupPromptImg');void img.offsetWidth;img.classList.add('cupPromptImg')}else{msg.textContent=t}};cupEls[prize].style.transform='translateY(-70px)';sfx(880,.3,'sine',.04,'correct');setTimeout(()=>{if(!document.getElementById('miniScreen').classList.contains('active'))return;cupEls.forEach(c=>c.style.transform='translateY(0)');setCupMsg('Shuffling…');let swaps=6+Math.min(4,Math.floor(_cupWins/2));let doSwap=async()=>{for(let k=0;k<swaps;k++){if(!document.getElementById('miniScreen').classList.contains('active'))return;let a=Math.floor(Math.random()*3),b=Math.floor(Math.random()*3);if(a===b){k--;continue}let posA=slots.indexOf(a),posB=slots.indexOf(b);slots[posA]=b;slots[posB]=a;cupEls[a].style.transitionDuration=(speed/1000)+'s';cupEls[b].style.transitionDuration=(speed/1000)+'s';cupEls[a].style.left=cupLeft(posB);cupEls[b].style.left=cupLeft(posA);prizeEl.style.transitionDuration=(speed/1000)+'s';prizeEl.style.left=prizeLeft(slots.indexOf(prize));sfx(500,.12,'sine',.04,'cupSwap');await new Promise(r=>setTimeout(r,speed))}shuffling=false;setCupMsg('Tap a cup to lift it')};doSwap()},1800);cupEls.forEach((c,ci)=>{c.onclick=()=>{if(solved||shuffling)return;sfx(700,.06,'sine',.02,'tap');solved=true;c.style.transform='translateY(-70px)';if(ci===prize){sfx(880,.3,'sine',.04,'correct');setTimeout(()=>beep(1320,.4),150);setCupMsg('You found it!');addXP(5);showXpCollect(5);speed=Math.max(400,speed-60);try{localStorage.setItem('tot_cups_speed',String(speed));localStorage.setItem('tot_cups_wins',String(_cupWins+1))}catch(err){};finish(false)}else{sfx(150,.25,'sine',.05,'wrong');setCupMsg('No big deal, look — here it was');speed=Math.min(1200,speed+60);try{localStorage.setItem('tot_cups_speed',String(speed))}catch(err){};setTimeout(()=>{cupEls.forEach((cc,j)=>{cc.style.transform='translateY(-70px)'});prizeEl.style.zIndex='3';prizeEl.style.transform='scale(1.4)';sfx(660,.2,'sine',.04,'reveal');setCupMsg('There it was!')},1200);setTimeout(()=>{finish(false)},4000)}}})}
 else if(id==='simon'){playSimon(el)}
@@ -400,7 +400,7 @@ function checkReveal(){let pairs=runPairs();if(finishedRun&&pairs.every(p=>myPic
 function showReveal(){let pairs=runPairs();let m=pairs.filter(pr=>myPicks[pr.id]&&partnerPicks[pr.id]&&myPicks[pr.id]===partnerPicks[pr.id]).length;saveStats({runs:1,matches:m});if(m)addXP(m*15);show('revealScreen');$('revealList').innerHTML='';drumRoll();pairs.forEach((p,i)=>{let you=myPicks[p.id],them=partnerPicks[p.id];let match=you===them;let row=document.createElement('div');row.className='revealrow';row.innerHTML=`${match?'<div class="spotlightbeam" style="left:30%"></div>':''}<div class="revealcard"><img src="${IMG[you]||''}"><div>You: ${you}</div></div><div class="revealcard"><img src="${IMG[them]||''}"><div>Them: ${them}</div></div>`;$('revealList').appendChild(row);setTimeout(()=>{if(match){trumpet();for(let c=0;c<20;c++){let el=document.createElement('div');el.className='confetti';el.style.left=Math.random()*100+'vw';el.style.background=['#ff8a3d','#ff5d8f','#4caf50','#ffd93d'][c%4];el.style.animationDelay=(Math.random()*.5)+'s';document.body.appendChild(el);setTimeout(()=>el.remove(),3000)}}else trombone()},1200+i*600)})}
 
 
-function nextPairs(){if(window._tourneyPending){window._tourneyPending=false;startTourney();return}show('transitionScreen');setTimeout(()=>{show('pairScreen');renderPair()},1700)}
+function nextPairs(){if(window._tourneyPending){window._tourneyPending=false;startTourney();return}show('transitionScreen');setTimeout(()=>{show('pairScreen');renderPair()},3000)}
 
 let _fbBtnOrig={};function updateFbButtons(){let connected=false;try{connected=localStorage.getItem('tot_fb_connected')==='1'}catch(e){};['fbConnectBtn','fbConnectBtn2'].forEach(id=>{let b=$(id);if(!b)return;if(!_fbBtnOrig[id])_fbBtnOrig[id]=b.innerHTML;if(connected)b.innerHTML=_fbBtnOrig[id].replace('Connect with','Connected with');else b.innerHTML=_fbBtnOrig[id]})}
 let _googleBtnOrig=null;function updateAvatar(){let im=$('avatarImg'),btn=$('googleBtn');if(!im)return;let fb1=$('fbConnectBtn'),fb2=$('fbConnectBtn2');if(btn&&!_googleBtnOrig)_googleBtnOrig=btn.innerHTML;if(user&&user.photoURL){im.src=user.photoURL;im.style.display='block';try{checkStreakOnLogin()}catch(e){};if(btn){btn.innerHTML=_googleBtnOrig.replace('Sign in with','Signed in with');btn.disabled=true;btn.style.display='flex'};if(fb1)fb1.style.display='flex';if(fb2)fb2.style.display='flex';try{updateFbButtons()}catch(e){}}else{im.style.display='none';if(btn){if(_googleBtnOrig)btn.innerHTML=_googleBtnOrig;btn.disabled=false;btn.style.display='flex'};if(fb1)fb1.style.display='none';if(fb2)fb2.style.display='none'}}
@@ -465,10 +465,10 @@ function renderFeed(){if(!$('feedBox'))return;let total=Object.keys(myPicks).len
 renderSurvey();renderFriends();
 
 let _memParam=new URLSearchParams(location.search).get('memory');
-if(_memParam){setTimeout(()=>{show('memoryScreen');startMemory()},300);}
+if(_memParam){setTimeout(()=>{show('memoryScreen');startMemory()},1200);}
 let _miniParam=new URLSearchParams(location.search).get('mini');
 if(_miniParam&&MINI_GAMES.some(g=>g.id===_miniParam)){setTimeout(()=>{show('miniScreen');if(_miniParam==='simon'){playSimonCycle()}else{playMini(_miniParam)}},300);}
-else if(_miniParam){setTimeout(()=>{show('menuScreen')},300);}
+else if(_miniParam){setTimeout(()=>{show('menuScreen')},1200);}
 let _tourneyParam=new URLSearchParams(location.search).get('tourney');
 if(_tourneyParam){setTimeout(()=>{PAIRS.forEach((pr,i)=>{myPicks['p'+i]=pr[0]});try{localStorage.setItem('tot_seen',JSON.stringify(PAIRS.map((_,i)=>'p'+i)))}catch(e){};startTourney()},300);}
 </script><script>if(location.search.indexOf('mini=')===-1&&location.search.indexOf('memory=')===-1&&location.search.indexOf('tourney=')===-1){setTimeout(function(){var sp=document.getElementById("splashScreen");if(sp)sp.classList.remove("active");if(window._dailyPending){var d=document.getElementById("streakScreen");if(d)d.classList.add("active")}else{var m=document.getElementById("menuScreen");if(m)m.classList.add("active")}},2600);}
